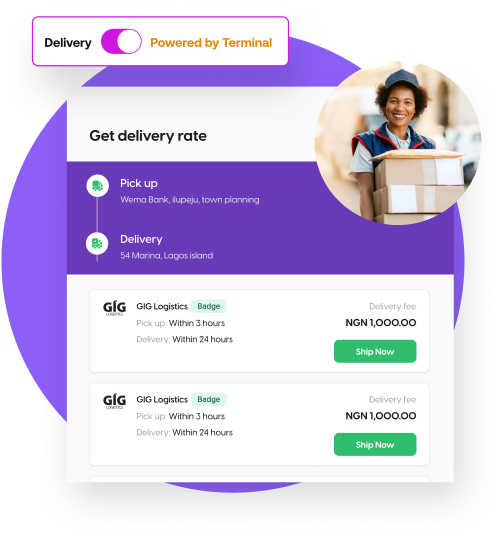
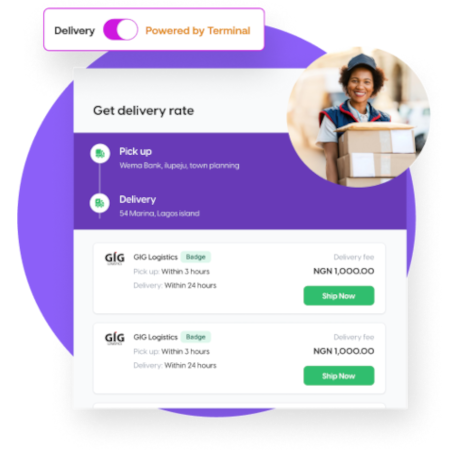
implement the following on the how-it-works section on the homepage:
- set the dimension of the images to 450x450 px
- make the image transition to work more seamlessly

Changed region(s): [[0.0, 0.0, 0.9644, 0.84], [0.2178, 0.7156, 0.84, 0.9333], [0.6533, 0.56, 0.84, 0.6844]]

diff --git a/src/components/pages/homepage/HowItWorks.tsx b/src/components/pages/homepage/HowItWorks.tsx
@@ -48,7 +48,7 @@ function HowItWorks() {
                   key={item?.text}
                   src={item?.image}
                   alt={item?.text}
-                  className={`w-full transition-all ${index === i ? 'h-auto' : 'h-0'}`}
+                  className={`transition-all ${index === i ? 'w-full h-auto' : 'w-0 h-0'}`}
                 />
               ))}
             </div>
